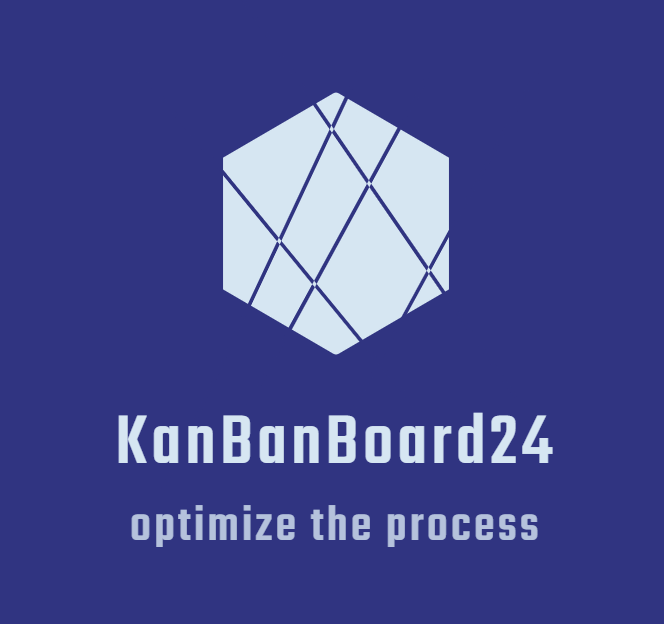
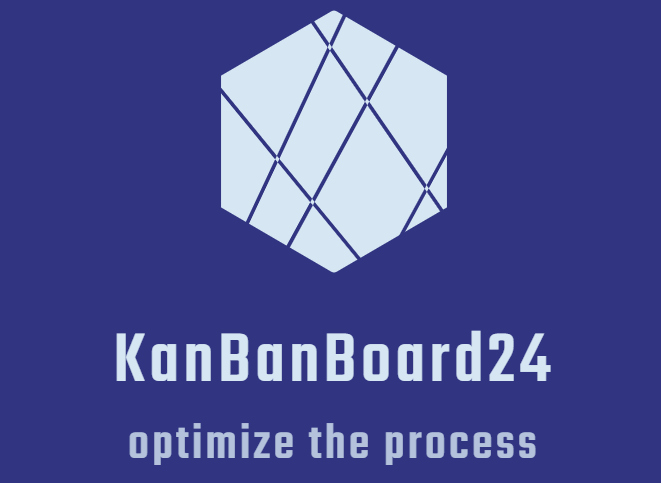
board update 1.1

diff --git a/board.css b/board.css
@@ -1,18 +1,18 @@
 body {
-    margin-left: 40px;
     margin-right: 40px;
+    margin-left: 40px;
     background-color: #D6E6F2;
 }
 
 .margin {
-   margin-top: 170px; 
+   margin-top: 150px; 
 }
 
 
 .board-card {
     /*background-color: #D6E6F2;*/
     width: 100%;
-    height: 160px;
+    height: 120px;
     border-radius: 10px;
     box-shadow: 10px 5px 5px rgba(0, 0, 0, 0.651);
 }
@@ -20,26 +20,47 @@ body {
 .textAndField {
     display: flex;
     align-items: center;
-    margin-bottom: 40px;
+    margin-bottom: 20px;
 }
 
+
 div h4 {
-    width: 150px;
+    width: 50px;
+    height: 50px;
+    transform: rotate(270deg);
+    display: flex;
+    justify-content: center;
+    text-align: center;
+    font-size: 20px;
     
 }
 
+div h5 {
+    width: 50px;
+    height: 50px;
+    transform: rotate(270deg);
+    display: flex;
+    justify-content: center;
+    align-items: flex-end;
+    font-size: 20px;
+    
+}
+
+
+
+
 .bg1 {
-    background-color: white;
+    background-color: rgba(255, 208, 0, 0.199);
 }
 
 .bg2 {
-    background-color: white;
+    background-color: rgba(255, 115, 0, 0.199);
 }
 
 .bg3 {
-    background-color: white;
+    background-color: rgba(250, 0, 0, 0.295);
 }
 
 .bg4 {
-    background-color: white;
+    background-color: rgba(0, 255, 76, 0.233);
 }

diff --git a/templates/header.html b/templates/header.html
@@ -1,7 +1,7 @@
 
     <nav class="navbar navbar-light bg-light fixed-top">
         <div class="container-fluid">
-            <img src="img/logo.png" width="150px">
+            <img src="img/logo.png">
             <button class="navbar-toggler" type="button" data-bs-toggle="offcanvas" data-bs-target="#offcanvasNavbar"
                 aria-controls="offcanvasNavbar">
                 <span class="navbar-toggler-icon"></span>

diff --git a/templates/header.css b/templates/header.css
@@ -1,6 +1,13 @@
 .bg-light {
     background-color: rgb(48, 52, 129) !important;
 }
+.container-fluid img {
+    width: 160px !important;
+    height: auto;
+    margin-top: 0 !important;
+    margin-left: 30px !important;
+    margin-bottom: 0 !important;
+}
 
 .navbar-light .navbar-toggler:hover {
     color: rgba(255, 255, 255, 0.849) !important;

diff --git a/board.html b/board.html
@@ -39,7 +39,7 @@
 
 
     <div class="textAndField">
-        <div><h4>DONE</h4></div>
+        <div><h5>DONE</h5></div>
         <div class="board-card bg4"></div>
     </div>
 
